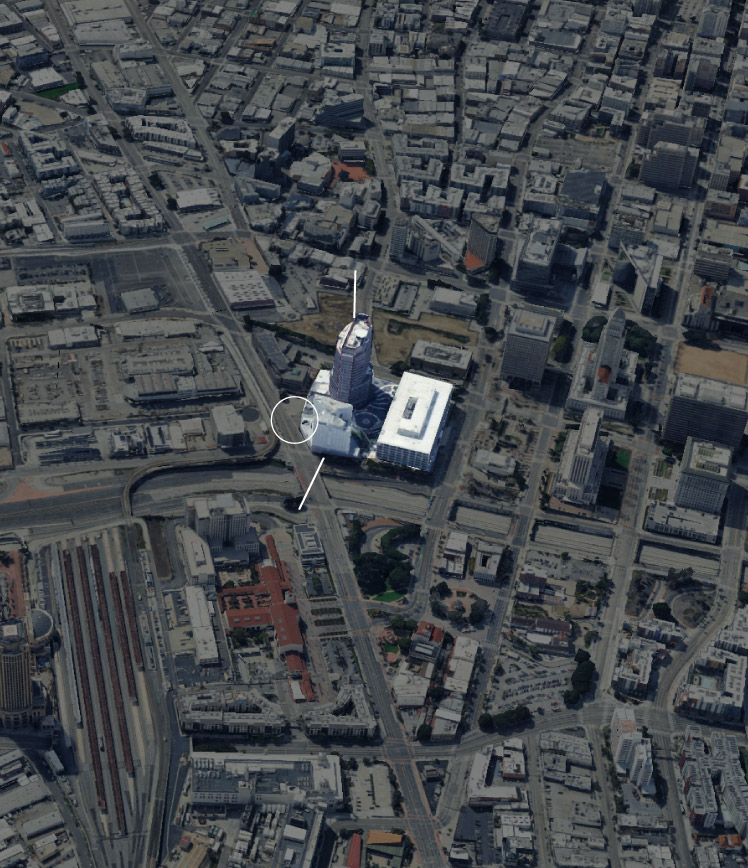
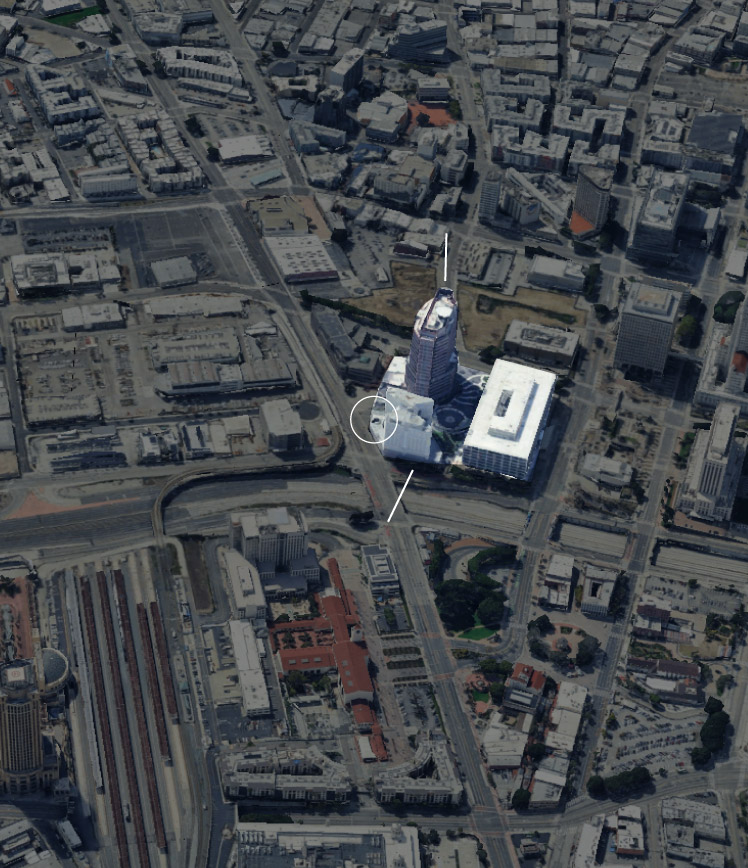
adjusting mobile

diff --git a/index.html b/index.html
@@ -105,7 +105,7 @@
       <!-- <div class="hed">This is a title</div>
       <div class="deck">This is a description.</div> -->
       <div class="g-graphicStub">
-<!-- Generated by ai2html v0.116.0 - 2025-06-09 12:22 -->
+<!-- Generated by ai2html v0.116.0 - 2025-06-09 13:28 -->
 <!-- ai file: yyyy-mm-dd-slug.ai -->
 
 <style media="screen,print">
@@ -301,22 +301,22 @@
 	<div id="g-yyyy-mm-dd-slug-mobile-small" class="g-artboard" style="max-width: 328px;max-height: 420px" data-aspect-ratio="0.781" data-min-width="0" data-max-width="373">
 <div style="padding: 0 0 128.0488% 0;"></div>
 		<img id="g-yyyy-mm-dd-slug-mobile-small-img" class="g-yyyy-mm-dd-slug-mobile-small-img g-aiImg" alt="" src="images/yyyy-mm-dd-slug-mobile-small.jpg"/>
-		<div id="g-ai0-1" class="g-tablet g-aiAbs g-aiPointText" style="top:28.9065%;margin-top:-17.4px;left:34.0158%;width:136px;">
+		<div id="g-ai0-1" class="g-mobile_lg g-aiAbs g-aiPointText" style="top:20.8112%;margin-top:-17.4px;left:41.4475%;width:136px;">
 			<p class="g-pstyle0">Edward R. Roybal </p>
 			<p class="g-pstyle0">Federal Building</p>
 		</div>
-		<div id="g-ai0-2" class="g-tablet g-aiAbs g-aiPointText" style="transform: matrix(0.4638,0.886,-0.886,0.4638,0,0);transform-origin: 50% 55.2919896640827%;-webkit-transform: matrix(0.4638,0.886,-0.886,0.4638,0,0);-webkit-transform-origin: 50% 55.2919896640827%;-ms-transform: matrix(0.4638,0.886,-0.886,0.4638,0,0);-ms-transform-origin: 50% 55.2919896640827%;top:39.6305%;margin-top:-9.4px;left:34.803%;margin-left:-42.5px;width:85px;">
+		<div id="g-ai0-2" class="g-mobile_lg g-aiAbs g-aiPointText" style="transform: matrix(0.4638,0.886,-0.886,0.4638,0,0);transform-origin: 50% 55.2919896640827%;-webkit-transform: matrix(0.4638,0.886,-0.886,0.4638,0,0);-webkit-transform-origin: 50% 55.2919896640827%;-ms-transform: matrix(0.4638,0.886,-0.886,0.4638,0,0);-ms-transform-origin: 50% 55.2919896640827%;top:28.202%;margin-top:-9.4px;left:33.9186%;margin-left:-42.5px;width:85px;">
 			<p class="g-pstyle1">Alameda St.</p>
 		</div>
-		<div id="g-ai0-3" class="g-tablet g-aiAbs g-aiPointText" style="top:50.6205%;margin-top:-23.6px;left:2.0368%;width:149px;">
+		<div id="g-ai0-3" class="g-mobile_lg g-aiAbs g-aiPointText" style="top:46.3348%;margin-top:-23.6px;left:6.1458%;width:149px;">
 			<p class="g-pstyle2">Where protesters </p>
 			<p class="g-pstyle2">clashed with federal </p>
 			<p class="g-pstyle2">law enforcement</p>
 		</div>
-		<div id="g-ai0-4" class="g-tablet g-aiAbs g-aiPointText" style="transform: matrix(0.9835,-0.181,0.181,0.9835,0,0);transform-origin: 50% 55.2919896640827%;-webkit-transform: matrix(0.9835,-0.181,0.181,0.9835,0,0);-webkit-transform-origin: 50% 55.2919896640827%;-ms-transform: matrix(0.9835,-0.181,0.181,0.9835,0,0);-ms-transform-origin: 50% 55.2919896640827%;top:60.5829%;margin-top:-9.4px;left:11.1697%;margin-left:-43px;width:86px;">
+		<div id="g-ai0-4" class="g-mobile_lg g-aiAbs g-aiPointText" style="transform: matrix(0.977,0.213,-0.213,0.977,0,0);transform-origin: 50% 55.2919896640827%;-webkit-transform: matrix(0.977,0.213,-0.213,0.977,0,0);-webkit-transform-origin: 50% 55.2919896640827%;-ms-transform: matrix(0.977,0.213,-0.213,0.977,0,0);-ms-transform-origin: 50% 55.2919896640827%;top:61.0591%;margin-top:-9.4px;left:85.4087%;margin-left:-43px;width:86px;">
 			<p class="g-pstyle1">Highway 101</p>
 		</div>
-		<div id="g-ai0-5" class="g-tablet g-aiAbs g-aiPointText" style="top:64.8589%;margin-top:-17.4px;left:25.6645%;width:131px;">
+		<div id="g-ai0-5" class="g-mobile_lg g-aiAbs g-aiPointText" style="top:62.716%;margin-top:-17.4px;left:32.7844%;width:131px;">
 			<p class="g-pstyle0">Metropolitan </p>
 			<p class="g-pstyle0">Detention Center</p>
 		</div>
@@ -326,22 +326,22 @@
 	<div id="g-yyyy-mm-dd-slug-mobile-large" class="g-artboard" style="width:374px; height:434.09619443599px;" data-aspect-ratio="0.862" data-min-width="374" data-max-width="598">
 <div style=""></div>
 		<img id="g-yyyy-mm-dd-slug-mobile-large-img" class="g-yyyy-mm-dd-slug-mobile-large-img g-aiImg" alt="" src="images/yyyy-mm-dd-slug-mobile-large.jpg"/>
-		<div id="g-ai1-1" class="g-mobile_lg g-aiAbs g-aiPointText" style="top:27.9678%;margin-top:-17.4px;left:30.3288%;width:136px;">
+		<div id="g-ai1-1" class="g-mobile_lg g-aiAbs g-aiPointText" style="top:23.5909%;margin-top:-17.4px;left:42.4994%;width:136px;">
 			<p class="g-pstyle0">Edward R. Roybal </p>
 			<p class="g-pstyle0">Federal Building</p>
 		</div>
-		<div id="g-ai1-2" class="g-mobile_lg g-aiAbs g-aiPointText" style="transform: matrix(0.4638,0.886,-0.886,0.4638,0,0);transform-origin: 50% 55.2919896640827%;-webkit-transform: matrix(0.4638,0.886,-0.886,0.4638,0,0);-webkit-transform-origin: 50% 55.2919896640827%;-ms-transform: matrix(0.4638,0.886,-0.886,0.4638,0,0);-ms-transform-origin: 50% 55.2919896640827%;top:38.3436%;margin-top:-9.4px;left:31.019%;margin-left:-42.5px;width:85px;">
+		<div id="g-ai1-2" class="g-mobile_lg g-aiAbs g-aiPointText" style="transform: matrix(0.4638,0.886,-0.886,0.4638,0,0);transform-origin: 50% 55.2919896640827%;-webkit-transform: matrix(0.4638,0.886,-0.886,0.4638,0,0);-webkit-transform-origin: 50% 55.2919896640827%;-ms-transform: matrix(0.4638,0.886,-0.886,0.4638,0,0);-ms-transform-origin: 50% 55.2919896640827%;top:30.7416%;margin-top:-9.4px;left:35.8965%;margin-left:-42.5px;width:85px;">
 			<p class="g-pstyle1">Alameda St.</p>
 		</div>
-		<div id="g-ai1-3" class="g-mobile_lg g-aiAbs g-aiPointText" style="top:48.9767%;margin-top:-23.6px;left:2.2829%;width:149px;">
+		<div id="g-ai1-3" class="g-mobile_lg g-aiAbs g-aiPointText" style="top:48.2856%;margin-top:-23.6px;left:11.5396%;width:149px;">
 			<p class="g-pstyle2">Where protesters </p>
 			<p class="g-pstyle2">clashed with federal </p>
 			<p class="g-pstyle2">law enforcement</p>
 		</div>
-		<div id="g-ai1-4" class="g-mobile_lg g-aiAbs g-aiPointText" style="transform: matrix(0.9835,-0.181,0.181,0.9835,0,0);transform-origin: 50% 55.2919896640827%;-webkit-transform: matrix(0.9835,-0.181,0.181,0.9835,0,0);-webkit-transform-origin: 50% 55.2919896640827%;-ms-transform: matrix(0.9835,-0.181,0.181,0.9835,0,0);-ms-transform-origin: 50% 55.2919896640827%;top:58.6156%;margin-top:-9.4px;left:10.2927%;margin-left:-43px;width:86px;">
+		<div id="g-ai1-4" class="g-mobile_lg g-aiAbs g-aiPointText" style="transform: matrix(0.977,0.213,-0.213,0.977,0,0);transform-origin: 50% 55.2919896640827%;-webkit-transform: matrix(0.977,0.213,-0.213,0.977,0,0);-webkit-transform-origin: 50% 55.2919896640827%;-ms-transform: matrix(0.977,0.213,-0.213,0.977,0,0);-ms-transform-origin: 50% 55.2919896640827%;top:62.5318%;margin-top:-9.4px;left:81.0536%;margin-left:-43px;width:86px;">
 			<p class="g-pstyle1">Highway 101</p>
 		</div>
-		<div id="g-ai1-5" class="g-mobile_lg g-aiAbs g-aiPointText" style="top:62.7527%;margin-top:-17.4px;left:23.0047%;width:131px;">
+		<div id="g-ai1-5" class="g-mobile_lg g-aiAbs g-aiPointText" style="top:64.1349%;margin-top:-17.4px;left:34.9018%;width:131px;">
 			<p class="g-pstyle0">Metropolitan </p>
 			<p class="g-pstyle0">Detention Center</p>
 		</div>
@@ -549,10 +549,11 @@
 			}
 		})("g-yyyy-mm-dd-slug-box", {namespace: "g-", setup: window.setupInteractive || window.getComponent});
 </script>
-<!-- End ai2html - 2025-06-09 12:22 -->
+<!-- End ai2html - 2025-06-09 13:28 -->
 </div>
       <figcaption>
-        Map: Taylor Johnston / CBS News • Source: Aerial image from Google Earth
+        <!-- <div class="note">Note: This is a note. Comment out if not needed.</div> -->
+        Map: Taylor Johnston / CBS News • Aerial imagery: Google Earth
       </figcaption>
     </div>
     <script
